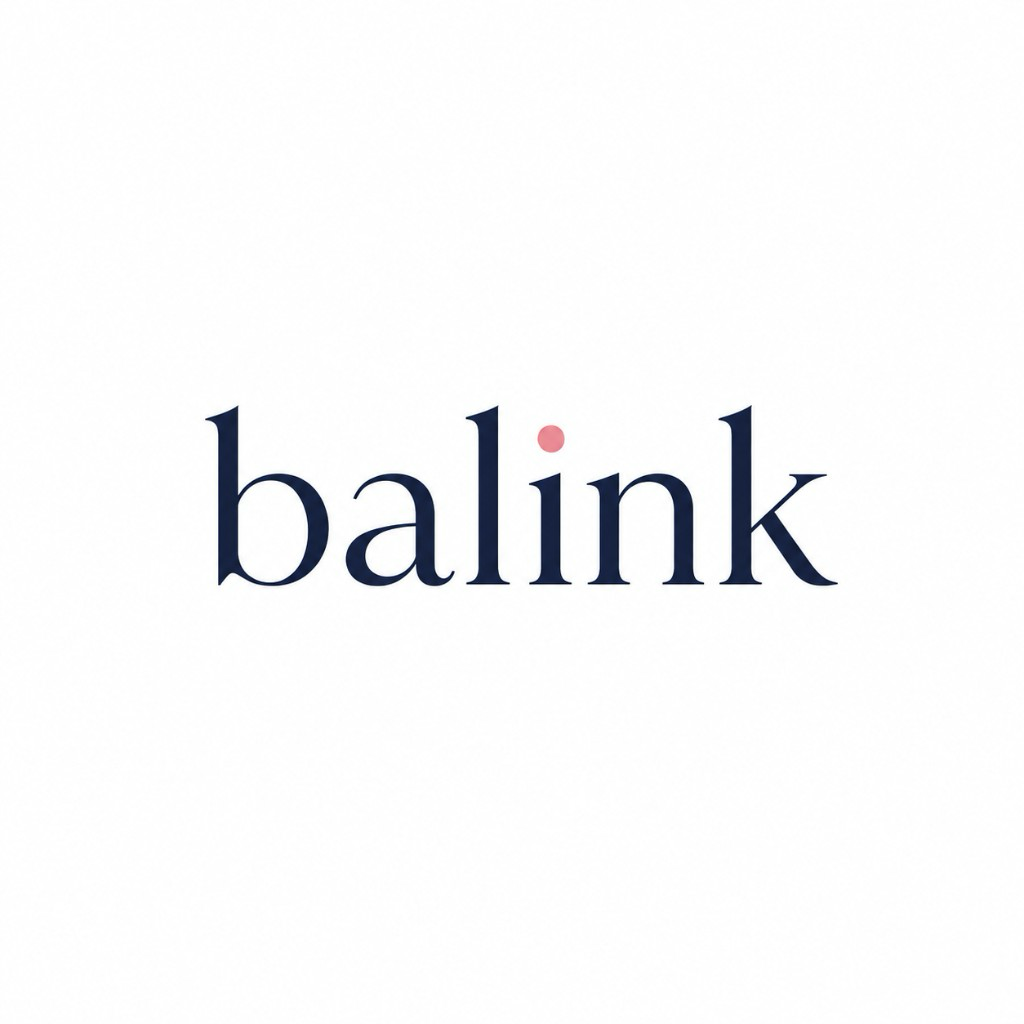
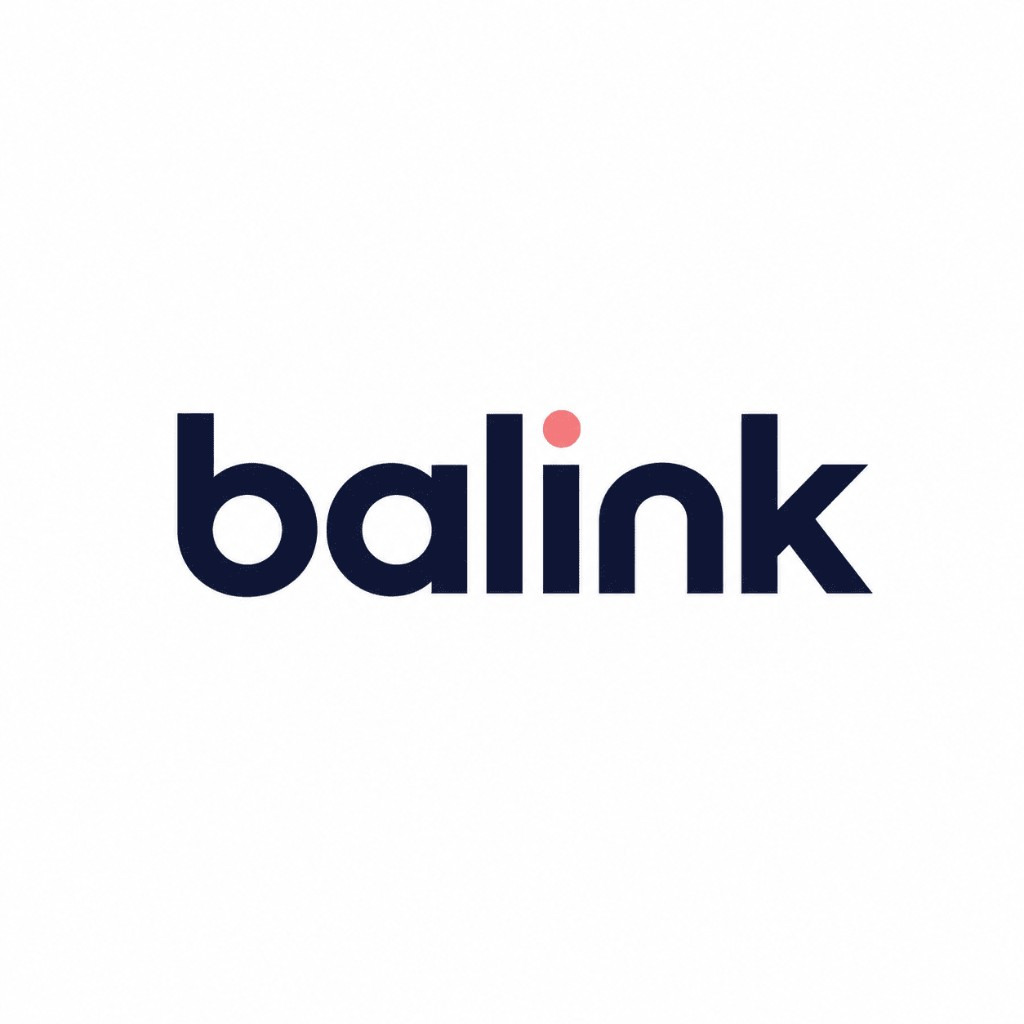
feat: 산세리프 워드마크로 브랜드를 교체하고 스플래시 등장 연출을 넣는다
헤더·파비콘·앱 아이콘을 새 로고로 맞추고, 네이티브 스플래시는 배경만 둔 뒤 JS에서 워드마크가 부드럽게 나타나게 한다. OG·스플래시  presense는 아직 미완성이다.

Changed region(s): [[0.1562, 0.375, 0.8438, 0.5938]]

diff --git a/apps/mobile/src/animated-splash.tsx b/apps/mobile/src/animated-splash.tsx
@@ -1,0 +1,108 @@
+import { useEffect, useRef, useState } from "react";
+import {
+  AccessibilityInfo,
+  Animated,
+  Easing,
+  StyleSheet,
+} from "react-native";
+import * as SplashScreen from "expo-splash-screen";
+
+const EASE_OUT = Easing.bezier(0.16, 1, 0.3, 1);
+const BACKGROUND = "#faf7f6";
+
+void SplashScreen.preventAutoHideAsync();
+
+export function AnimatedSplash() {
+  const [visible, setVisible] = useState(true);
+  const logoOpacity = useRef(new Animated.Value(0)).current;
+  const translateY = useRef(new Animated.Value(12)).current;
+  const scale = useRef(new Animated.Value(0.98)).current;
+  const overlayOpacity = useRef(new Animated.Value(1)).current;
+
+  useEffect(() => {
+    let cancelled = false;
+
+    async function play() {
+      const reduceMotion = await AccessibilityInfo.isReduceMotionEnabled();
+      await SplashScreen.hideAsync();
+      if (cancelled) return;
+
+      if (reduceMotion) {
+        setVisible(false);
+        return;
+      }
+
+      Animated.sequence([
+        Animated.parallel([
+          Animated.timing(logoOpacity, {
+            toValue: 1,
+            duration: 420,
+            easing: EASE_OUT,
+            useNativeDriver: true,
+          }),
+          Animated.timing(translateY, {
+            toValue: 0,
+            duration: 420,
+            easing: EASE_OUT,
+            useNativeDriver: true,
+          }),
+          Animated.timing(scale, {
+            toValue: 1,
+            duration: 420,
+            easing: EASE_OUT,
+            useNativeDriver: true,
+          }),
+        ]),
+        Animated.delay(240),
+        Animated.timing(overlayOpacity, {
+          toValue: 0,
+          duration: 280,
+          easing: EASE_OUT,
+          useNativeDriver: true,
+        }),
+      ]).start(({ finished }) => {
+        if (finished && !cancelled) setVisible(false);
+      });
+    }
+
+    void play();
+    return () => {
+      cancelled = true;
+    };
+  }, [logoOpacity, overlayOpacity, scale, translateY]);
+
+  if (!visible) return null;
+
+  return (
+    <Animated.View
+      pointerEvents="none"
+      style={[styles.overlay, { opacity: overlayOpacity }]}
+    >
+      <Animated.Image
+        source={require("../assets/logo-horizontal.png")}
+        resizeMode="contain"
+        style={[
+          styles.logo,
+          {
+            opacity: logoOpacity,
+            transform: [{ translateY }, { scale }],
+          },
+        ]}
+      />
+    </Animated.View>
+  );
+}
+
+const styles = StyleSheet.create({
+  overlay: {
+    ...StyleSheet.absoluteFill,
+    zIndex: 100,
+    alignItems: "center",
+    justifyContent: "center",
+    backgroundColor: BACKGROUND,
+  },
+  logo: {
+    width: 188,
+    height: 63,
+  },
+});

diff --git a/apps/mobile/App.tsx b/apps/mobile/App.tsx
@@ -4,6 +4,7 @@ import { GestureHandlerRootView } from "react-native-gesture-handler";
 import { SafeAreaProvider } from "react-native-safe-area-context";
 import * as Notifications from "expo-notifications";
 import { enableScreens } from "react-native-screens";
+import { AnimatedSplash } from "./src/animated-splash";
 import { BridgeProvider } from "./src/bridge-context";
 import { RootNavigator } from "./src/navigation/RootNavigator";
 import { useSourceSessionCookies } from "./src/source-session-cookies";
@@ -41,6 +42,7 @@ function ThemedApp() {
       <BridgeProvider>
         <RootNavigator />
       </BridgeProvider>
+      <AnimatedSplash />
     </>
   );
 }

diff --git a/apps/web/src/components/site-header.tsx b/apps/web/src/components/site-header.tsx
@@ -18,16 +18,16 @@ export function SiteHeader({ jobCount, substituteCount }: SiteHeaderProps) {
           <Image
             src="/brand/logo-horizontal.png"
             alt="balink"
-            width={140}
-            height={50}
+            width={1024}
+            height={341}
             priority
             className="h-8 w-auto dark:hidden sm:h-9"
           />
           <Image
             src="/brand/logo-horizontal-dark.png"
             alt="balink"
-            width={140}
-            height={50}
+            width={1024}
+            height={341}
             priority
             className="hidden h-8 w-auto dark:block sm:h-9"
           />

diff --git a/apps/web/src/components/login-screen.tsx b/apps/web/src/components/login-screen.tsx
@@ -36,16 +36,16 @@ export function LoginScreen({
             <Image
               src="/brand/logo-horizontal.png"
               alt="balink"
-              width={200}
-              height={72}
+              width={1024}
+              height={341}
               priority
               className="h-10 w-auto dark:hidden"
             />
             <Image
               src="/brand/logo-horizontal-dark.png"
               alt="balink"
-              width={200}
-              height={72}
+              width={1024}
+              height={341}
               priority
               className="hidden h-10 w-auto dark:block"
             />
